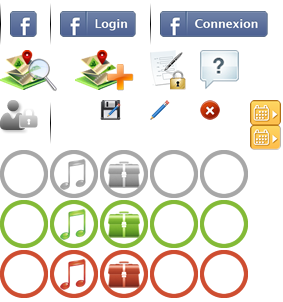
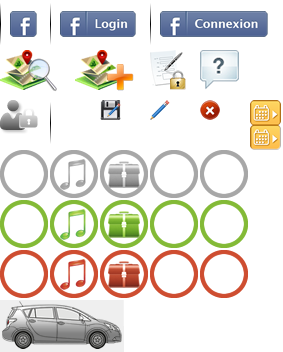
vehicule profil + accent autocomplet

diff --git a/web/css/style.css b/web/css/style.css
@@ -889,18 +889,28 @@ textarea.profil_modif{
 .editor .icon_modifier{
     background: url(../images/elements.png) no-repeat scroll -200px -100px transparent;
 }
-#modifier{
+.modifier{
     float:right;
     margin-right: 15px;
     height:20px;
 }
-#modifier button{
+.modifier button{
+    background: transparent;
+    text-shadow: 0 none;
+    font-weight: normal;
+    font-size: 0.75em;
+    text-decoration: underline;
+    text-align: left;
+    padding: 5px 0 0 0;
+}
+.modifier button span{
     background: url(../images/elements.png) no-repeat scroll -100px -100px transparent;
     height:20px;
     width:21px;
-    line-height: 20px;
-    text-indent: 999px;
-    overflow: hidden;
+    display:block;
+    float: right;
+    margin-top: -5px;
+    margin-left: 2px;
 }
 .icone-datepicker{
     background: url(../images/elements.png) no-repeat scroll -249px -100px transparent;
@@ -1007,12 +1017,17 @@ textarea.profil_modif{
     background-position:-200px -250px ;
 }
 .profil .vehicule{
-    width: 100px;
+    width: 125px;
     float:left;
     margin-right: 10px;
 }
-.profil .couleur-vehicule p{
-    height:100px;
+.profil .couleur_vehicule{
+    margin-bottom: 15px;
+}
+.profil .couleur_vehicule .img_vehicule{
+    background: url(../images/elements.png) no-repeat scroll 0px -300px transparent;
+    height:50px;
+    width: 122px;
 }
 .profil .immatriculation {
     text-align: center;
@@ -1230,7 +1245,19 @@ div.colorPicker-swatch {
     margin: 2px;
     width: 12px;
 }
+/*========================================================
+    TIMEPICKER STYLES
+ ========================================================*/
+.ui-timepicker-div .ui-widget-header { margin-bottom: 8px; }
+.ui-timepicker-div dl { text-align: left; }
+.ui-timepicker-div dl dt { height: 25px; margin-bottom: -25px; }
+.ui-timepicker-div dl dd { margin: 0 10px 10px 65px; }
+.ui-timepicker-div td { font-size: 90%; }
+.ui-tpicker-grid-label { background: none; border: none; margin: 0; padding: 0; }
 
+.ui-timepicker-rtl{ direction: rtl; }
+.ui-timepicker-rtl dl { text-align: right; }
+.ui-timepicker-rtl dl dd { margin: 0 65px 10px 10px; }
 
 @media only screen and (max-width: 1050px){ /*MOINS DE 650px*/
 	.add_trajet{

diff --git a/application/views/profil.php b/application/views/profil.php
@@ -3,7 +3,7 @@
     $input_email = array('id'=>'email', 'name'=>'email', 'type'=>'email', 'value'=>$info_membre->email, 'class'=>'profil_input');
     
     $data_user_id = array('id'=>'user_id', 'name'=>'user_id', 'type'=>'hidden', 'value'=>$info_membre->user_id);
-    $data_submit = array('id' => 'button', 'name' => 'button', 'type' => 'check', 'value' => 'true', 'content' => 'modifier mon profil');
+    $data_submit = array('class' => 'button', 'type' => 'check', 'value' => 'true', 'content' => 'Enregister<span class="bouton_modif"></span>');
 ?>
 <div class="content">
     <div class="row-fluid profil">
@@ -59,7 +59,7 @@
                     <?php echo form_open('user/modifier',array('method'=>'post')); ?>
                         <div class="edit_button clearfix">
                             <p class="edit"><span>Modifier</span><span class="icon_modifier"></span></p>
-                            <div id="modifier" class="profil_modif">
+                            <div class="modifier profil_modif">
                                 <?php echo form_button($data_submit) ?>
                             </div>  
                         </div>    
@@ -124,7 +124,7 @@
                     <?php echo form_open('user/modifier',array('method'=>'post')); ?>
                         <div class="edit_button clearfix">
                             <p class="edit"><span>Modifier</span><span class="icon_modifier"></span></p>
-                            <div id="modifier" class="profil_modif">
+                            <div class="modifier profil_modif">
                                 <?php echo form_button($data_submit) ?>
                             </div>  
                         </div>    
@@ -207,7 +207,7 @@
                         <?php echo form_open('user/modifier',array('method'=>'post','class'=>'clearfix')); ?>    
                             <div class="edit_button clearfix">
                                 <p class="edit"><span>Modifier</span><span class="icon_modifier"></span></p>
-                                <div id="modifier" class="profil_modif">
+                                <div class="modifier profil_modif">
                                     <?php echo form_button($data_submit) ?>
                                 </div>  
                             </div>
@@ -300,15 +300,15 @@
                         <?php echo form_open('user/modifier',array('method'=>'post','class'=>'clearfix')); ?>
                             <div class="edit_button clearfix">
                                 <p class="edit"><span>Modifier</span><span class="icon_modifier"></span></p>
-                                <div id="modifier" class="profil_modif">
+                                <div class="modifier profil_modif">
                                     <?php echo form_button($data_submit) ?>
                                 </div>  
                             </div>
                             <h3>Véhicule</h3>
                             <div class="vehicule">
-                                <div class="couleur-vehicule" >
+                                <div class="couleur_vehicule" >
+                                    <div class="img_vehicule" style="background-color:<?php echo $info_membre->couleur ?>"></div>
                                     <input id="colorPicker" name="colorPicker" type="text" value="<?php echo $info_membre->couleur; ?>" />
-                                    <p style="background-color:<?php echo $info_membre->couleur ?>">image voiture</p>
                                 </div>
                                 <p class="immatriculation edit_hidden clearfix"><span><?php echo $info_membre->immatriculation ?></span></p>
                                 <div class="immatriculation">
@@ -364,8 +364,8 @@
                     else{ ?>
                         <h3>Véhicule</h3>
                         <div class="vehicule">
-                            <div class="couleur-vehicule" >
-                                <p style="background-color:<?php echo $info_membre->couleur ?>">image voiture</p>
+                            <div class="couleur_vehicule" >
+                                <div class="img_vehicule" style="background-color:<?php echo $info_membre->couleur ?>"></div>
                             </div>
                             <p class="immatriculation clearfix"><span><?php echo $info_membre->immatriculation ?></span></p>
                         </div>
@@ -438,18 +438,45 @@
                      endforeach; ?>
                      ];
 
-                    $("#input_ville").autocomplete({
-                                    autoFocus: true,
-                                    source: villes,
-                                    select: function (event, ui) { $('#input_villeID').val(ui.item.id); } 
-                                });
                     $("#input_naissance").datepicker({
                                         autoSize: false,
+                                        maxDate: "-18Y",
                                         constrainInput: true, 
                                         changeMonth: true,
                                         changeYear: true
                                         },$.datepicker.regional[ "fr" ]
                                     );
+                                    
+                    var accentMap = {
+                        "á": "a",
+                        "é": "e",
+                        "è": "e",
+                        "ê": "e",
+                        "ë": "e",
+                        "ï": "i",
+                        "î": "i",
+                        "ö": "o",
+                        "ô": "o",
+                        "û": "u",
+                        "ü": "u"
+                    };
+                    var normalize = function( term ) {
+                        var ret = "";
+                        for ( var i = 0; i < term.length; i++ ) {
+                            ret += accentMap[ term.charAt(i) ] || term.charAt(i);
+                        }
+                        return ret;
+                    };
+                    $( "#input_ville" ).autocomplete({
+                        source: function( request, response ) {
+                            var matcher = new RegExp( $.ui.autocomplete.escapeRegex( request.term ), "i" );
+                            response( $.grep( villes, function( value ) {
+                                value = value.label || value.value || value;
+                                return matcher.test( value ) || matcher.test( normalize( value ) );
+                            }) );
+                        },
+                        select: function (event, ui) { $('#input_villeID').val(ui.item.id); }
+                    }); 
                 </script>
             </div>
         </div>
